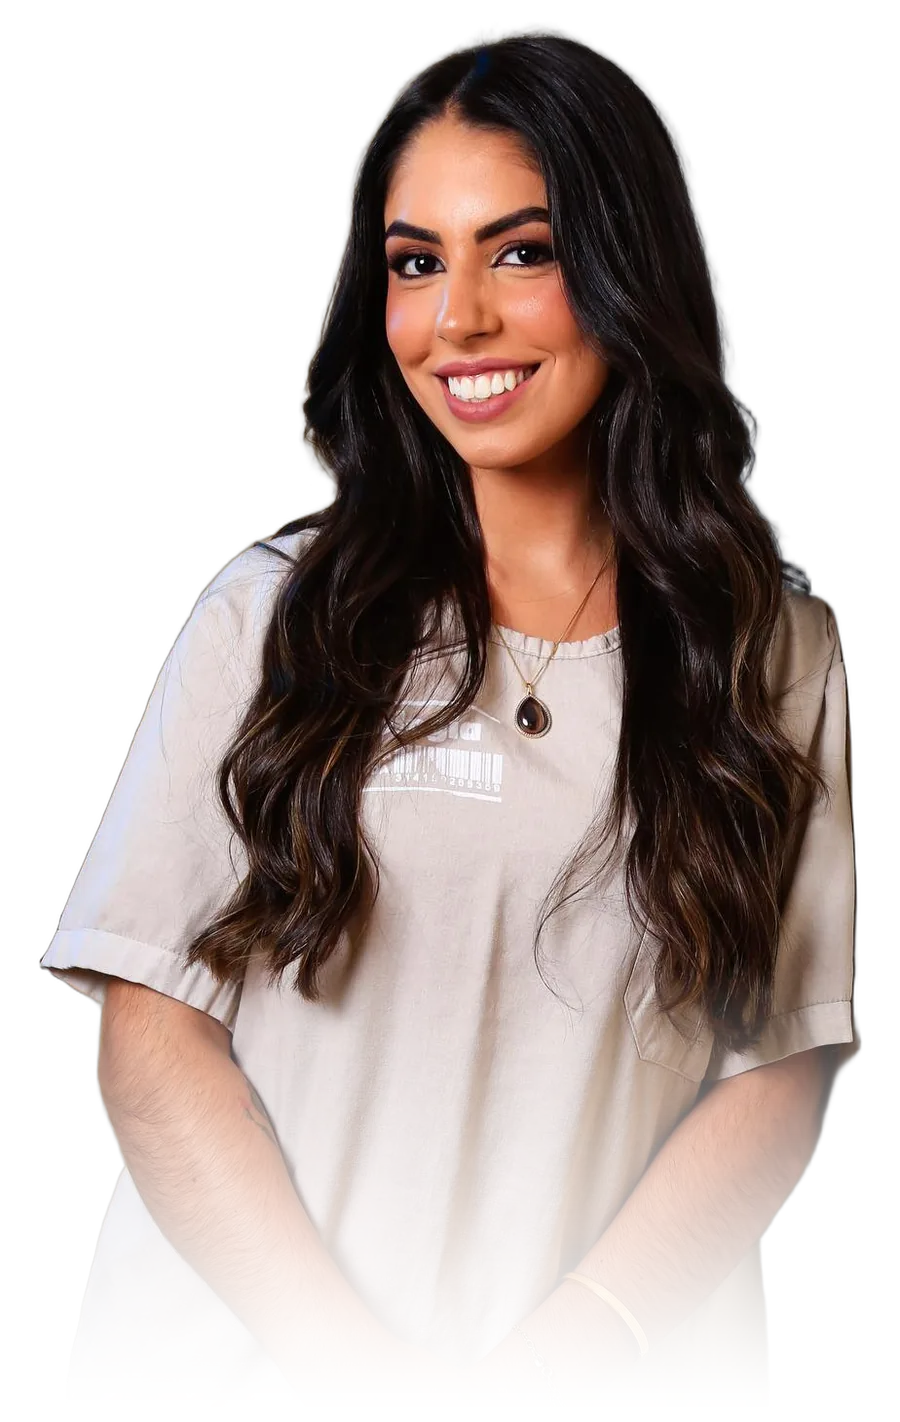
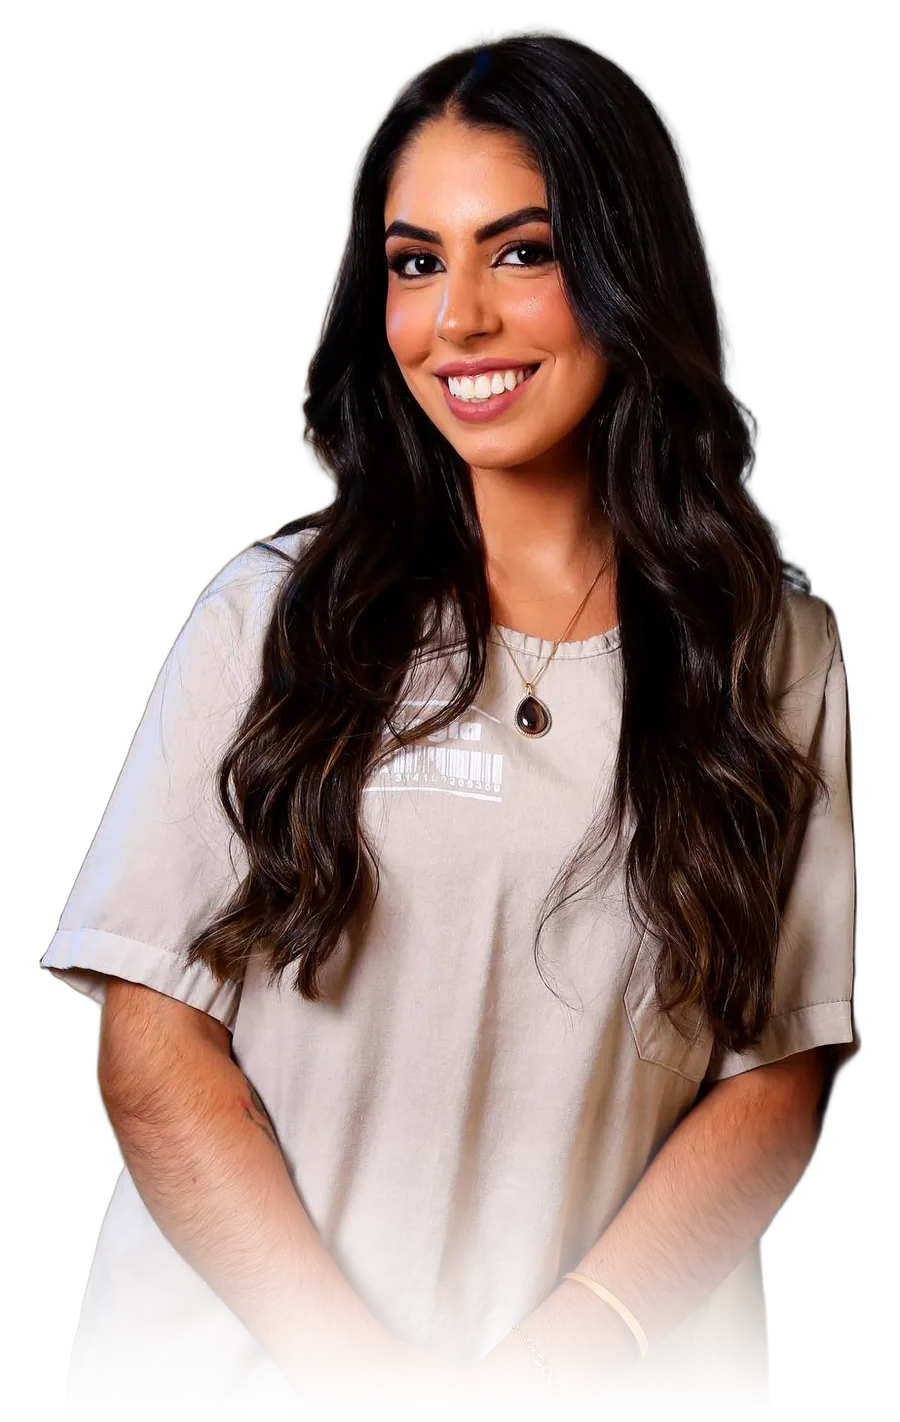
fix: tira o nome repetido e dá mais definição à foto do topo
- abaixo da foto fica só "Fisioterapeuta · CREFITO 404302-F"; o nome já
  aparece no logo
- foto com um pouco menos de brilho e mais contraste, e o esmaecimento
  da parte de baixo começa mais tarde, para não ficar lavada
- arco atrás da foto em verde-acinzentado claro, para a camiseta bege
  não se misturar com o fundo

Claude-Session: https://claude.ai/code/session_01YKtx6LgHe5UhemwiuyXhhh

Changed region(s): [[0.0933, 0.6807, 0.9644, 0.9592], [0.3422, 0.6807, 0.3733, 0.7117]]

diff --git a/style.css b/style.css
@@ -1266,7 +1266,7 @@ ul, ol { list-style: none; }
     inset: 22% 4% 9% 4%;
     border: 0;
     border-radius: 999px 999px 0 0;
-    background: var(--parchment);
+    background: #e2e5dc;
     -webkit-mask-image: linear-gradient(to bottom, #000 55%, transparent 100%);
             mask-image: linear-gradient(to bottom, #000 55%, transparent 100%);
     z-index: 0;
@@ -1288,24 +1288,14 @@ ul, ol { list-style: none; }
   .hero-id {
     position: relative;
     z-index: 1;
-    display: grid;
-    justify-items: center;
-    gap: 0.3rem;
-    margin-top: -2.4rem;
+    display: block;
+    margin-top: -1.4rem;
     text-align: center;
-  }
-  .hero-id-name {
-    font-family: "Playfair Display", Georgia, serif;
-    font-style: italic;
-    font-size: 1.45rem;
-    line-height: 1.1;
-    color: var(--pine);
-  }
-  .hero-id-cred {
     font-size: 0.6rem;
     font-weight: 600;
     letter-spacing: 0.2em;
     text-transform: uppercase;
+    white-space: nowrap;
     color: var(--ink-60);
   }
   .hero-left { text-align: left; }
@@ -1315,7 +1305,7 @@ ul, ol { list-style: none; }
   .hero-left { gap: 0.9rem; }
 }
 @media (max-width: 399px) {
-  .hero-id-cred { letter-spacing: 0.12em; white-space: nowrap; }
+  .hero-id { letter-spacing: 0.12em; }
 }
 @media (prefers-reduced-motion: reduce) {
   .hero-right { animation: none; opacity: 1; }

diff --git a/index.html b/index.html
@@ -307,10 +307,7 @@
                 <img src="assets/foto-nova.jpeg" alt="Thamires Camargo, fisioterapeuta domiciliar em Passo Fundo" class="hero-photo" width="852" height="1280" fetchpriority="high" />
               </picture>
             </div>
-            <p class="hero-id">
-              <span class="hero-id-name">Thamires Camargo</span>
-              <span class="hero-id-cred">Fisioterapeuta · CREFITO 404302-F</span>
-            </p>
+            <p class="hero-id">Fisioterapeuta · CREFITO 404302-F</p>
           </div>
         </div>
       </div>
